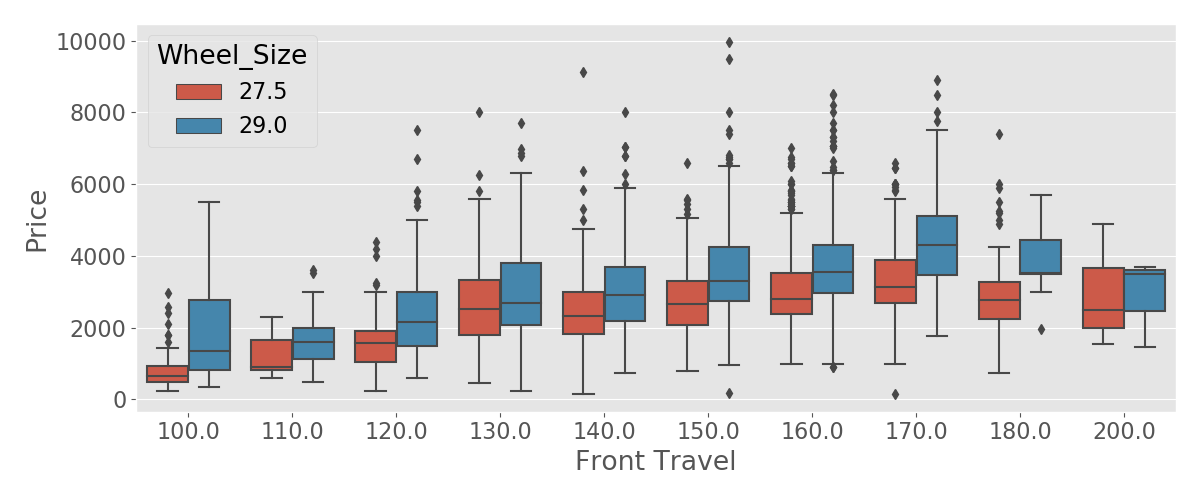
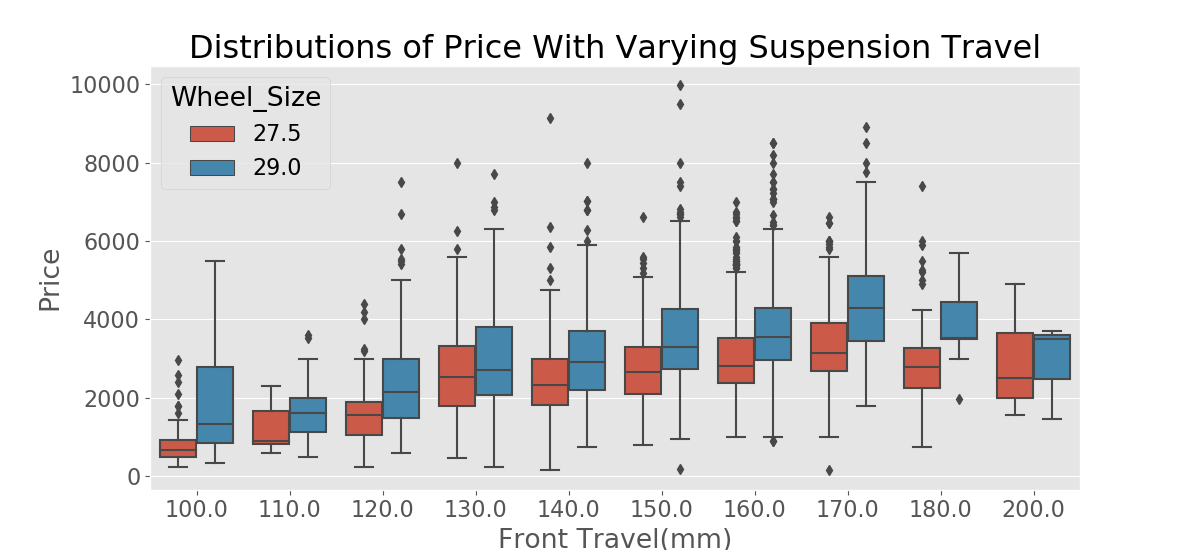
updated Readme

diff --git a/src/plots.py b/src/plots.py
@@ -55,7 +55,7 @@ if __name__=='__main__':
     ax.plot(x,norm_275.pdf(x),color='#C95948',label='27.5')
     ax.plot(x,norm_29.pdf(x),color= '#4586AC',label='29')
     ax.set_title('Distribution of Bike Value Means Given Wheel Size')
-    ax.set_xlabel("Mean Price")
+    ax.set_xlabel("Mean Price($)")
     ax.set_ylabel("Probablility Density Function (Price)")
     ax.set_ylim([-.0005,.018])
     ax.axvline(mean_29,ymax=norm_29.pdf(mean_29)/(.01775),color = '#4586AC',ls = '--',alpha=.5)
@@ -75,30 +75,32 @@ if __name__=='__main__':
 
     # Histogram with KDE
 
-    fig1,ax1 = plt.subplots(figsize=(12,5))
+
+    fig1,ax1 = plt.subplots(figsize=(12,5.5))
     sns.distplot(df_275['Price'],color='#C95948',bins=50,kde=True,ax=ax1,label='27.5')
     sns.distplot(df_29['Price'],color='#4586AC',bins=50,kde=True,ax=ax1,label='29')
     ax1.set_title('Histogram of 27.5" and 29" Wheel Bikes')
+    ax1.set_xlabel('Price($)')
     ax1.legend()
     
 
     # Histogram without KDE
-    fig2,ax2 = plt.subplots(figsize=(12,5))
+    fig2,ax2 = plt.subplots(figsize=(12,5.25))
     bins_ = [i for i in range(0,10000,150)]
     sns.distplot(df_275['Price'],color='#C95948',bins=bins_,kde=False,ax=ax2,label='27.5')
     sns.distplot(df_29['Price'],color='#4586AC',bins=bins_,kde=False,ax=ax2,label='29')
     ax2.set_xticks(np.linspace(0,10000,25))
     ax2.set_title('Histogram of 27.5" and 29" Wheel Bikes')
     ax2.set_ylabel('Count')
-    ax2.set_xlabel('Price')
+    ax2.set_xlabel('Price($)')
     ax2.legend()
     plt.xticks(rotation=35)
 
 
-    # Box plot of materials Given Wheel Size
-    fig3,ax3 = plt.subplots(figsize=(12,5))
+    # Box plot of price Given Wheel Size and suspension travel
+    fig3,ax3 = plt.subplots(figsize=(12,5.5))
     sns.boxplot(x='Front_travel',y='Price',data = box_plot_df(df),hue="Wheel_Size",ax=ax3)
-    ax3.set_xlabel('Front Travel')
+    ax3.set_xlabel('Front Travel(mm)')
     ax3.set_title('Distributions of Price With Varying Suspension Travel')
 
     # Box Plot of materials

diff --git a/README.md b/README.md
@@ -40,13 +40,13 @@ And here are the first 10 postings of my listing. All prices were converted into
 </p>
 
 ## EDA 
-There were 2230 29" wheel bikes
-There were 1689 27.5" wheel bikes. 
+There were 2230 27.5" wheel bikes
+There were 1689 29" wheel bikes. 
 
 I started by making a histogram for each wheel size. Based off the histogram it looks like there may be some diference in the average value as the 29" wheel bikes appear to have a larger right tail but it is far from conclusive.
 
 <p align="center">
-  <img src="Images/hist_no_kde.png" >
+  <img src="Images/hist_kde.png" >
 </p>
 
 I applied the central limit theorem to the distributions above and calculated the standard deviation to get the components of the normal distribution. After plotting, the difference in these plots of means is clearly apparent. To further concrete my observations I applied the Welche's T-test to calculate a t statistic and a p-value. I calculated a t-statistic of 13.12 and a p-value of 2.38e-38, therefore I can reject my null hypothesis and accept my alternative hypothesis and conclusively say that the mean price of 29" wheeled mountain bikes is greater than the mean price of 27.5" wheeled mountain bikes. 
